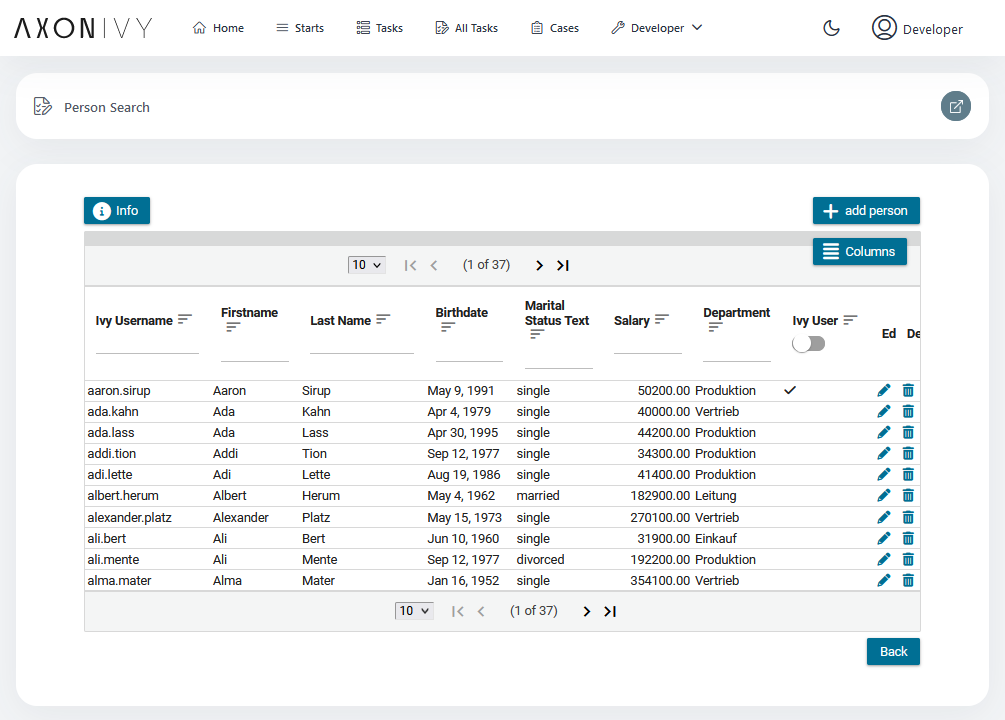
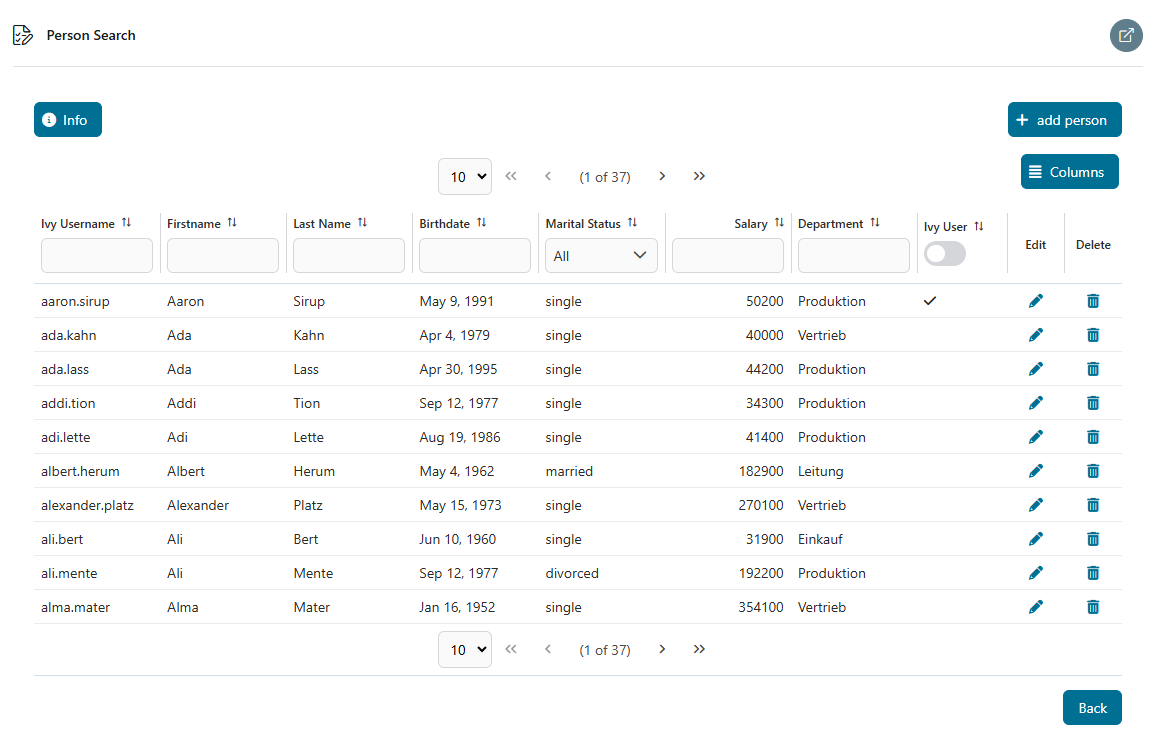
MARP-744 Handle Feedbacks

diff --git a/persistence-utils-demo/webContent/layouts/styles/person-search.css b/persistence-utils-demo/webContent/layouts/styles/person-search.css
@@ -1,18 +1,3 @@
-/* .person_search_table2 tr td {
-	padding: 0.2em 0.2em 0.2em 0.2em !important;
-} */
-.right {
-	text-align: right;
-}
-
-.left {
-	text-align: left;
-}
-
-.center {
-	text-align: center;
-}
-
 .person_search_table th {
 	font-size: 12px;
 	font-weight: 600;

diff --git a/persistence-utils-demo/webContent/layouts/styles/department-search.css b/persistence-utils-demo/webContent/layouts/styles/department-search.css
@@ -2,10 +2,6 @@
 	padding: 0.2em 0.2em 0.2em 0.2em !important;
 }
 
-.right {
-	text-align: right;
-}
-
 .edit-delete-column {
 	width: 4em;
 	text-align: center;
